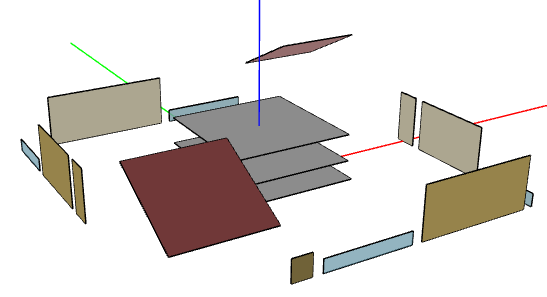
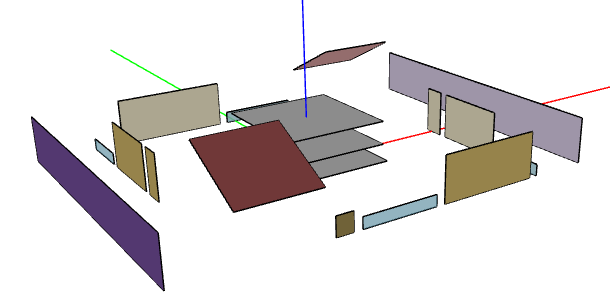
Changed my mind... simple solution to show how shading surfaces are handled.

diff --git a/docs/source/intro.rst b/docs/source/intro.rst
@@ -105,12 +105,13 @@ HPXMLtoOpenStudio measure
 ~~~~~~~~~~~~~~~~~~~~~~~~~
 
 The ``HPXMLtoOpenStudio`` measure translates :ref:`enclosure` elements to an OpenStudio Model.
-The image below shows the result of translating an HPXML file corresponding to the above single-family detached example.
+The image below shows the result of translating an HPXML file corresponding to the above single-family detached example, including neighboring buildings of the same height to the left/right.
 
 .. image:: images/geometry_exploded.png
    :align: center
 
-Surfaces have the correct area/orientation for the heat transfer calculations (but are spread out such that they do not shade one another).
+Surfaces are shown with the correct area/orientation for heat transfer calculations (but are spread out such that they do not shade one another).
+Shading surfaces, shown in purple, represent neighboring buildings that substantially shade the windows facing left/right.
 
 .. note::
 
